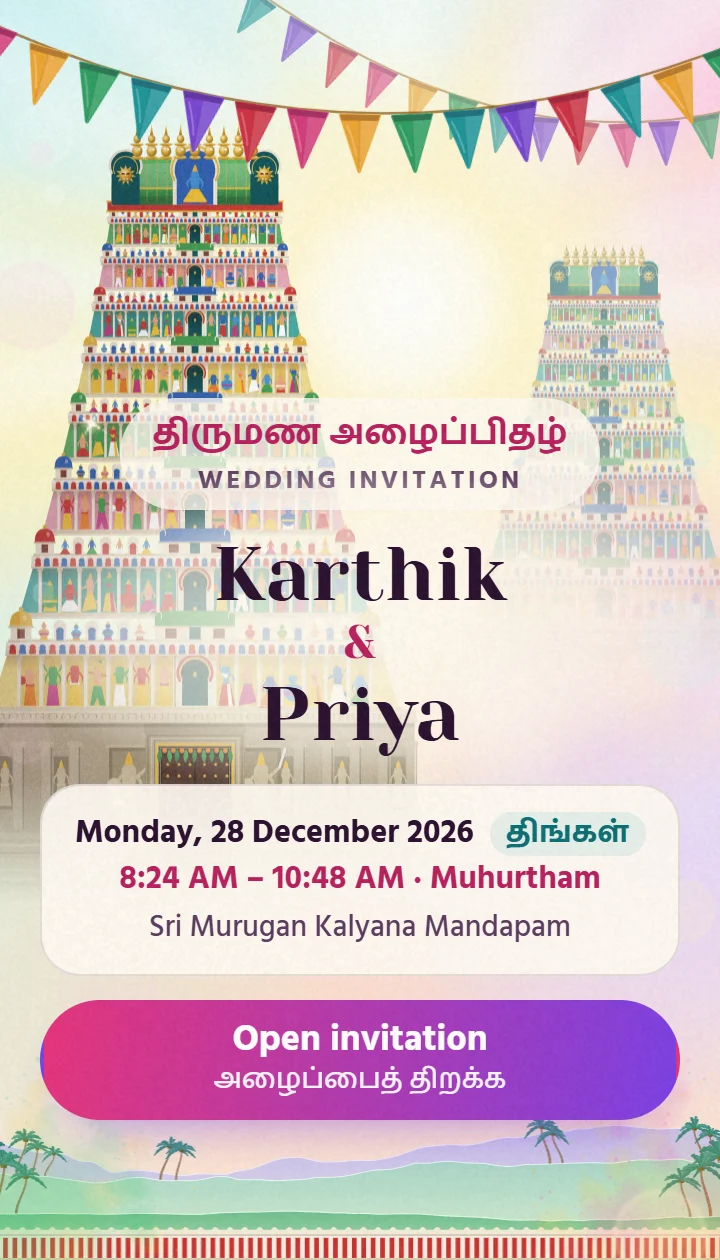
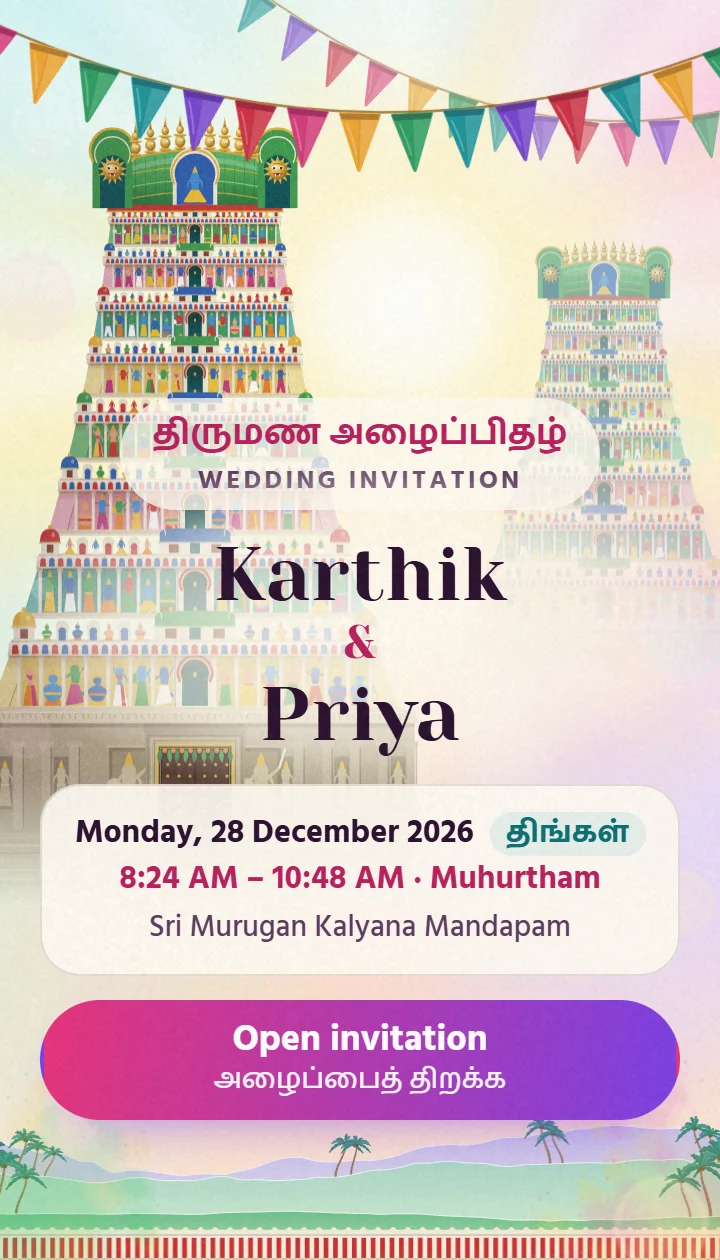
Thiruvizha 2 demo + thumbnail: round-3 version (critic 8.2)
Courtyard landing, reworked gopuram, desktop scale, sticky-bar label fix.

diff --git a/public/templates/thiruvizha2.html b/public/templates/thiruvizha2.html
@@ -22,7 +22,7 @@
 @media (min-width: 900px) { :root { --m: 40px; --sec: 104px; } }
 *, *::before, *::after { box-sizing: border-box; }
 html { -webkit-text-size-adjust: 100%; background: var(--paper); }
-body { margin: 0; color: var(--ink); font: 500 17px/1.5 var(--ui); -webkit-font-smoothing: antialiased; overflow-x: hidden; overflow-x: clip; padding-bottom: calc(var(--bar-h) + var(--safe) + 8px); }
+body { margin: 0; color: var(--ink); font: 500 17px/1.5 var(--ui); -webkit-font-smoothing: antialiased; overflow-x: hidden; overflow-x: clip; }
 html.locked body, body.is-locked { overflow: hidden; }
 img, svg, canvas, video, iframe { display: block; max-width: 100%; }
 a { color: inherit; }
@@ -68,10 +68,11 @@ p, h1, h2, h3, figure, ol, ul { margin: 0; }
 html.past-hero .rails { opacity: 1; }
 .rail { position: absolute; top: 0; bottom: 0; width: calc(50vw - 300px); }
 .rl { left: 0; } .rr { right: 0; }
-.rail img { position: absolute; bottom: 0; left: 50%; width: min(70%, 280px); transform: translateX(-50%); opacity: .12; }
+.rail img { position: absolute; bottom: 0; left: 50%; width: min(70%, 280px); transform: translateX(-50%); opacity: .2; }
 .rr img { transform: translateX(-50%) scaleX(-1); }
 .rail::after { content: ''; position: absolute; top: 0; bottom: 0; width: 48px; background: var(--kolam) repeat-y center top / 48px 48px; opacity: .55; }
 .rl::after { right: 28px; } .rr::after { left: 28px; }
+.sec > .seam { left: calc(50% - 326px); right: calc(50% - 326px); }
 }
 .grain { position: fixed; inset: 0; z-index: 95; pointer-events: none; opacity: .03; background-size: 128px 128px; }
 
@@ -169,9 +170,10 @@ html.push .g-art .bunt { transform: translateY(-170px); opacity: 0; }
 html.push .pw { opacity: 0; }
 html.push .mistw { transform: scale(1.3); opacity: 0; }
 html.gate-off .gate { visibility: hidden; }
+html.gate-fade .gate { opacity: 0; transition: opacity calc(.7s * var(--q)) linear; }
 html.calm.opening .gate { opacity: 0; transition: opacity .6s; }
 .bloom { position: fixed; inset: 0; z-index: 60; pointer-events: none; opacity: 0; background: radial-gradient(70% 55% at 56% 30%, #FFFFFF 0%, #FFFCEB 40%, #FFF4C2 75%, #FFEBC8 100%); }
-html.bloom-in .bloom { opacity: .92; transition: opacity calc(.4s * var(--q)) var(--p2in); }
+html.bloom-in .bloom { opacity: .35; transition: opacity calc(.4s * var(--q)) var(--p2in); }
 html.bloom-out .bloom { opacity: 0; transition: opacity calc(.45s * var(--q)) var(--p2out); }
 .fx { position: fixed; inset: 0; width: 100%; height: 100%; z-index: 70; pointer-events: none; }
 main { position: relative; display: block; overflow-x: clip; }
@@ -186,15 +188,19 @@ html.locked:not(.opening) main { visibility: hidden; }
 .art img.h-rays.in { opacity: .7; }
 .h-scene { left: 0; right: 0; top: 0; height: 340px; z-index: 1; }
 .h-scene > * { position: absolute; }
-.hg { left: 7vw; bottom: 46px; width: 31vw; max-width: 230px; z-index: 2; transform: translate3d(0, calc(var(--par) * 1px), 0); }
-.toran { left: 0; right: 0; top: 0; height: 56px; background-repeat: repeat-x; background-size: 600px 56px; background-position: center top; z-index: 5; opacity: 0; transition: opacity .6s; }
+.hg { left: 19vw; bottom: 70px; width: 28vw; max-width: 230px; z-index: 2; transform: translate3d(0, calc(var(--par) * 1px), 0); }
+.art img.pil { position: absolute; top: 0; height: 100%; width: auto; max-width: none; z-index: 6; }
+.art img.pil.pr { right: 0; transform: scaleX(-1); } .art img.pil.pl { left: 0; }
+.lintel { left: 0; right: 0; top: 0; height: 15px; z-index: 6; background: linear-gradient(#E6D7B9, #B79F7A); box-shadow: 0 2px 0 rgba(60, 40, 20, .25); }
+.floor { left: 0; right: 0; bottom: 0; height: 30px; z-index: 3; background: linear-gradient(#E9DAB9, #D6C29C); background-repeat: repeat-x; }
+.toran { left: 0; right: 0; top: 10px; height: 56px; background-repeat: repeat-x; background-size: 600px 56px; background-position: center top; z-index: 5; opacity: 0; transition: opacity .6s; }
 .toran.in { opacity: 1; }
 html.live:not(.calm) .hg { will-change: transform; }
-.hfar { right: 9vw; bottom: 58px; width: 23vw; max-width: 170px; z-index: 1; }
+.hfar { right: 33vw; bottom: 84px; width: 17vw; max-width: 150px; z-index: 1; }
 .hfar img.in { opacity: .8; }
-.art img.h-hills { position: absolute; left: -6%; width: 112%; max-width: none; bottom: 0; z-index: 3; }
+.art img.h-hills { position: absolute; left: -6%; width: 112%; max-width: none; bottom: 28px; z-index: 3; }
 .hero .bokeh { z-index: 4; }
-.hpot { right: 24px; bottom: -12px; width: 23vw; max-width: 210px; z-index: 4; }
+.hpot { right: 16vw; bottom: 4px; width: 19vw; max-width: 200px; z-index: 4; }
 .hero-in { position: relative; z-index: 5; width: 100%; max-width: var(--col); margin: 0 auto; flex: 1; display: flex; flex-direction: column; align-items: center; text-align: center; }
 .h-eye { display: flex; flex-direction: column; align-items: center; color: var(--rani-t); padding: 6px 16px; border-radius: 999px; background: rgba(255, 251, 242, .8); }
 .h-eye .ta { font-size: 17px; font-weight: 700; line-height: 1.5; }
@@ -267,8 +273,9 @@ mask: radial-gradient(circle 10px at var(--nx) 0, #0000 97%, #000) top / 100% 51
 .ticket .chip { margin-bottom: 10px; }
 .ticket .actions { margin-top: 14px; }
 .ticket .btn { min-height: 48px; padding: 0 18px; font-size: 16px; }
-.tk.is-main .t-body::after { content: ''; position: absolute; inset: 0; pointer-events: none; background: linear-gradient(105deg, rgba(255, 240, 176, 0) 35%, rgba(255, 240, 176, .55) 50%, rgba(255, 240, 176, 0) 65%); transform: translateX(-110%); }
-html.m-ready .tk.is-main.in .t-body::after { transform: translateX(110%); transition: transform 1.3s var(--p2out) .5s; }
+.tk.is-main .stub { position: relative; overflow: hidden; }
+.tk.is-main .stub::after { content: ''; position: absolute; inset: 0; pointer-events: none; background: linear-gradient(105deg, rgba(255, 240, 176, 0) 35%, rgba(255, 240, 176, .55) 50%, rgba(255, 240, 176, 0) 65%); transform: translateX(-110%); }
+html.m-ready .tk.is-main.in .stub::after { transform: translateX(110%); transition: transform 1.3s var(--p2out) .5s; }
 
 /* Countdown */
 .cd-sec .sec-head .ta { color: var(--teal-t); }
@@ -287,9 +294,10 @@ html.m-ready .tk.is-main.in .t-body::after { transform: translateX(110%); transi
 .cd-t .cd-n .dv { color: var(--ink); background: none; -webkit-background-clip: border-box; background-clip: border-box; }
 .cd-t small { display: block; font: 700 14px/1.3 var(--ui); color: var(--ink2); margin-top: 4px; }
 .ring { position: absolute; left: 50%; top: 50%; width: 92px; height: 92px; margin: -46px 0 0 -46px; border-radius: 50%; border: 2px solid var(--rani); opacity: 0; pointer-events: none; }
-.cd-art { position: relative; display: flex; justify-content: center; align-items: flex-end; gap: 0; margin: 6px auto 0; max-width: 380px; }
-.cd-art .drumw { width: 34%; margin-right: -6%; position: relative; z-index: 2; }
-.cd-art .potw { position: relative; width: 66%; }
+.cd-art { position: relative; margin: 18px auto 0; max-width: 340px; }
+.cd-art .kfloor { width: 100%; }
+.cd-art .drumw { position: absolute; left: 50%; bottom: 34%; width: 50%; margin-left: -25%; z-index: 2; }
+.cd-sec { padding-bottom: calc(var(--sec) - 24px); }
 .steam { position: absolute; left: 50%; top: 18%; width: 40%; height: 30%; margin-left: -20%; pointer-events: none; }
 .wisp { position: absolute; bottom: 0; width: 26%; height: 100%; opacity: 0; }
 .wisp svg { width: 100%; height: 100%; }
@@ -400,14 +408,14 @@ html.calm .flame { animation: none !important; }
 .share-more { display: flex; flex-wrap: wrap; justify-content: center; gap: 0 22px; }
 .share-status { min-height: 24px; font: 700 15px/1.5 var(--ui); color: var(--green-t); margin-top: 4px; }
 footer a { display: inline-block; padding: 12px 4px; }
-footer { padding: 24px var(--m) 28px; text-align: center; font: 500 15px/1.5 var(--ui); color: var(--ink2); }
+footer { padding: 20px var(--m) calc(16px + var(--safe)); text-align: center; font: 500 15px/1.5 var(--ui); color: var(--ink2); }
 
 /* Sticky bar */
 .bar { position: fixed; left: 0; right: 0; bottom: 0; z-index: 40; height: calc(var(--bar-h) + var(--safe)); padding: 0 8px var(--safe) 4px; background: rgba(255, 251, 242, .96); border-top: 1px solid rgba(42, 15, 46, .14); color: var(--ink); display: flex; align-items: center; gap: 6px; transform: translateY(110%); transition: transform .45s var(--e-out); }
 .bar.on { transform: none; }
 .bar-main { flex: 1; min-width: 0; height: 100%; display: flex; flex-direction: column; justify-content: center; text-align: left; background: none; border: 0; padding: 0 6px 0 12px; cursor: pointer; }
 .bar-l1 { font: 700 15px/1.3 var(--ui); white-space: nowrap; overflow: hidden; text-overflow: ellipsis; }
-@media (max-width: 429px) { .bb { padding: 0 10px; } }
+@media (max-width: 430px) { .bb { width: 44px; height: 44px; padding: 0; justify-content: center; } .bb span { position: absolute; width: 1px; height: 1px; overflow: hidden; clip: rect(0 0 0 0); } .bar-l1 { white-space: normal; display: -webkit-box; -webkit-line-clamp: 2; -webkit-box-orient: vertical; } }
 @media (max-width: 399px) { html:not(.st-live) .bar-l2 .b-v { display: none; } }
 .bar-l2 { font: 500 14px/1.3 var(--ui); color: var(--ink2); white-space: nowrap; overflow: hidden; text-overflow: ellipsis; }
 .bb { flex: none; display: inline-flex; align-items: center; gap: 6px; height: 48px; padding: 0 12px; border-radius: 999px; border: 2px solid var(--ink); background: #fff; color: var(--ink); font: 700 14px/1 var(--ui); text-decoration: none; cursor: pointer; }
@@ -470,20 +478,20 @@ footer { padding: 24px var(--m) 28px; text-align: center; font: 500 15px/1.5 var
 @media (max-width: 359px) { .gate .scrim, .hero .scrim { max-width: none; } }
 @media (max-height: 640px) { .gate-in { padding-top: 64px; } .gate .scrim { padding: 12px 0 14px; } .g-facts { padding: 12px 14px; } .f-when, .f-time { font-size: 16px; } .f-venue { font-size: 15px; } #openBtn { margin-top: 12px; } }
 @media (max-width: 899px) { .farw img { -webkit-mask-image: linear-gradient(#000 62%, transparent 86%); mask-image: linear-gradient(#000 62%, transparent 86%); } .herow img { -webkit-mask-image: linear-gradient(#000 84%, transparent 99%); mask-image: linear-gradient(#000 84%, transparent 99%); } .g-space { order: -1; max-height: none; } .h-space { order: -1; max-height: none; min-height: 250px; } }
-@media (max-width: 359px) { .h-space { min-height: 214px !important; } .g-eye, .h-eye { background: none; padding: 0; text-shadow: 0 0 10px #FFFBF2, 0 0 4px #FFFBF2, 0 0 2px #FFFBF2; } .herow { top: 16px !important; width: 64vw !important; left: -10vw !important; } }
+@media (max-width: 359px) { .h-space { min-height: 214px !important; } .g-eye, .h-eye { background: rgba(255, 250, 240, .88); padding: 4px 12px; } .herow { top: 16px !important; width: 64vw !important; left: -10vw !important; } }
 /* ── desktop: column ≤ 560, art fills the viewport ── */
 @media (min-width: 900px) {
-.herow { left: max(-7vw, -110px); top: auto; bottom: 0; width: 48vh; max-width: 480px; }
+.herow { left: 2vw; top: auto; bottom: 3vh; width: 46vh; max-width: 460px; }
 .farw { right: max(-5vw, -80px); top: auto; bottom: 7vh; width: 36vh; }
 .pw1 { width: 30vw; left: -12vw; bottom: -18vh; } .pw2 { width: 30vw; right: -12vw; bottom: -18vh; }
 .mist { height: 34vh; }
-.h-scene { height: 48vh; }
+.h-scene { height: 52vh; }
 
-.hg { left: calc(50% - 280px - 16vh); bottom: 18%; width: 15.5vh; max-width: none; }
-.hfar { right: calc(50% - 280px - 13vh); bottom: 21%; width: 12.5vh; max-width: none; }
-.hpot { right: 24px; bottom: 24px; width: 24vh; max-width: 260px; }
+.hg { left: calc(50% - 280px - 20vh); bottom: calc(14% + 28px); width: 20vh; max-width: none; }
+.hfar { right: calc(50% - 280px - 16vh); bottom: calc(17% + 28px); width: 16vh; max-width: none; }
+.hpot { right: calc(50% - 280px - 34vh); bottom: 4px; width: 17vh; max-width: 240px; }
 .hero { padding-top: 120px; padding-bottom: 100px; }
-.h-space { min-height: calc(48vh - 150px); max-height: none; }
+.h-space { min-height: calc(52vh - 150px); max-height: none; }
 .sunw { top: 30%; left: 50%; }
 .h-sun, .art img.h-rays { left: 50%; top: 16%; }
 }
@@ -552,8 +560,11 @@ footer { padding: 24px var(--m) 28px; text-align: center; font: 500 15px/1.5 var
                     <div class="hfar"><img id="hFarImg" alt="" /></div>
                     <div class="hg" id="hg"><img id="hgImg" alt="" /></div>
                     <img class="h-hills" id="hHills" alt="" />
+                    <div class="floor" id="hFloor"></div>
                     <div class="hpot"><img id="hPotImg" alt="" /></div>
+                    <img class="pil pl" id="pilL" alt="" /><img class="pil pr" id="pilR" alt="" />
                 </div>
+                <i class="lintel"></i>
                 <div class="toran" id="hToran"></div>
             </div>
             <div class="hero-in">
@@ -641,8 +652,8 @@ footer { padding: 24px var(--m) 28px; text-align: center; font: 500 15px/1.5 var
             </div>
             <div class="cd-next facts rv" id="cdNext" hidden></div>
             <div class="cd-art art" aria-hidden="true">
+                <img class="kfloor" id="kfloorImg" alt="" />
                 <div class="drumw" id="drumw"><img id="drumImg" alt="" /></div>
-                <div class="potw"><img id="potImg" alt="" /><div class="steam" id="steam"></div></div>
             </div>
         </section>
 
@@ -1290,12 +1301,12 @@ footer { padding: 24px var(--m) 28px; text-align: center; font: 500 15px/1.5 var
     function gopuramSVG(far) {
         var R = prng(far ? 31 : 17), J = function (a) { return (R() * 2 - 1) * a; };
         var W = 540, C = 270, BASE = 760, TOP = 150, HW0 = 250, HW1 = 100, fn = 0;
-        function hw(y) { var t = (BASE - y) / (BASE - TOP); return HW0 - (HW0 - HW1) * (1.35 * t - .35 * t * t); }
+        function hw(y) { var t = (BASE - y) / (BASE - TOP); return HW0 - (HW0 - HW1) * (1.55 * t - .55 * t * t); }
         function trap(y1, y2, e1, e2) { return poly([[C - hw(y1) - e1, y1], [C + hw(y1) + e1, y1], [C + hw(y2) + e2, y2], [C - hw(y2) - e2, y2]]); }
         function hs(x, yb, w, h) { var r = w * .56, s = yb - (h - w * .808); return 'M' + f1(x - w / 2) + ',' + f1(yb) + 'V' + f1(s) + 'A' + f1(r) + ',' + f1(r) + ' 0 1 1 ' + f1(x + w / 2) + ',' + f1(s) + 'V' + f1(yb) + 'Z'; }
         function arc(x, yb, w, h) { var r = w * .56, s = yb - (h - w * .808); return 'M' + f1(x - w / 2) + ',' + f1(s) + 'A' + f1(r) + ',' + f1(r) + ' 0 1 1 ' + f1(x + w / 2) + ',' + f1(s); }
         function fig(x, yb, hgt, type) {
-            var i = fn++, sk = SKINS[(i * 5 + 1) % SKINS.length], c = CLOTHS[(i * 3) % CLOTHS.length], c2 = CLOTHS[(i * 3 + 2) % CLOTHS.length];
+            var i = fn++, sk = SKINS[Math.floor(R() * SKINS.length)], c = CLOTHS[Math.floor(R() * CLOTHS.length)], c2 = CLOTHS[Math.floor(R() * CLOTHS.length)];
             if (c === sk) c = '#F2C230';
             return '<g transform="translate(' + f1(x + J(.5)) + ',' + f1(yb) + ') scale(' + (hgt * (1 + J(.05))).toFixed(2) + ')">' + FIG[type || FIGS[i % FIGS.length]](sk, c, c2) + '</g>';
         }
@@ -1334,12 +1345,17 @@ footer { padding: 24px var(--m) 28px; text-align: center; font: 500 15px/1.5 var
             var yb = y, yt = y - h, yM = yb - .07 * h, yW = yb - .62 * h, yC = yb - .75 * h, wall = WALLS[k % 4][0], deep = WALLS[k % 4][1];
             tiers += P(trap(yb, yM, 2, 2), CREAM2) + P(trap(yb - 1, yb - 2.2, 2, 2), 'rgba(255,255,255,.5)');
             tiers += P(trap(yM, yW, 0, 0), wall);
+            var cbx = Math.min(22, (hw(yM) - 40) * .22);
+            [-1, 1].forEach(function (sg) { // projecting corner bays, stepped forward with a darker inner edge
+                var o1 = C + sg * hw(yM), o2 = C + sg * hw(yW), i1 = o1 - sg * cbx, i2 = o2 - sg * cbx;
+                tiers += P(poly([[o1, yM], [i1, yM], [i2, yW], [o2, yW]]), 'rgba(255,255,255,.16)') + S('M' + f1(i1) + ',' + f1(yM) + 'L' + f1(i2) + ',' + f1(yW), 'rgba(40,20,10,.4)', 1);
+            });
             var wh = yM - yW, fh = wh * .86, bw = fh * .5, cbw = bw * 1.75, half = hw((yM + yW) / 2) - 5;
             var m = Math.max(0, Math.floor((half - cbw / 2) / bw)), xs = [];
             for (var j = 0; j < m; j++) xs.push(C - cbw / 2 - bw * (j + .5), C + cbw / 2 + bw * (j + .5));
             xs.forEach(function (x, ii) {
                 tiers += P(rect(x - bw * .4, yW + 1, bw * .8, wh - 2), deep);
-                tiers += fig(x, yM - 1, fh * (k > 6 ? 1.05 : .98), FIGS[(k * 3 + ii) % 8]);
+                tiers += fig(x, yM - 1, fh * (k > 5 ? 1.05 : .98), FIGS[Math.floor(R() * 8)]);
             });
             for (j = 0; j <= m; j++) [-1, 1].forEach(function (sg) { var X = C + sg * (cbw / 2 + bw * j); tiers += P(rect(X - bw * .09, yW + 1, bw * .18, wh - 1), CREAM) + P(rect(X - bw * .14, yW + 1, bw * .28, wh * .07), CREAM) + P(rect(X + bw * .05, yW + 1, bw * .04, wh - 1), 'rgba(80,50,30,.18)'); });
             // the central bay projects: framed, a little lighter, a larger deity under a torana
@@ -1347,7 +1363,7 @@ footer { padding: 24px var(--m) 28px; text-align: center; font: 500 15px/1.5 var
             tiers += S(arc(C, yM - 1, cbw * .78, wh * .96), '#C8322F', Math.max(1.4, h * .03)) + S(arc(C, yM - 1, cbw * .66, wh * .9), GOLD, Math.max(.8, h * .012)) + EL(C, yM - wh * .62, cbw * .05, wh * .05, GOLD, 'opacity=".85"');
             // cornice shadow on the wall, then the kapota with kudu arches
             tiers += P(trap(yW + .16 * h, yW, 0, 0), 'url(#sh)');
-            tiers += P(trap(yW, yC, 2.5, 6), 'url(#corn)') + P(trap(yW + 1.4, yW, 2.5, 2.5), CREAM2) + S('M' + f1(C - hw(yC) - 6) + ',' + f1(yC + .4) + 'H' + f1(C + hw(yC) + 6), '#FFFFFF', .9);
+            tiers += P(trap(yW, yC, 2.5, 6), 'url(#corn)') + P(trap(yW + 1.4, yW, 2.5, 2.5), CREAM2) + P(trap(yW + 3.6, yW + 1.4, 1.5, 2), '#00000026') + S('M' + f1(C - hw(yC) - 6) + ',' + f1(yC + .4) + 'H' + f1(C + hw(yC) + 6), '#FFFFFF', .9);
             var kh = (yW - yC) * .82, kw = kh * .66, step = kw * 1.5, kx0 = C - hw(yW) + kw * .8;
             for (var kx = kx0, kn = 0; kx < C + hw(yW) - kw * .6; kx += step, kn++) tiers += P(hs(kx, yW - .6, kw, kh), KUDU[kn % 2]) + S(arc(kx, yW - .6, kw, kh), CREAM, Math.max(.6, h * .012));
             tiers += S('M' + f1(C + hw(yM)) + ',' + f1(yM) + 'L' + f1(C + hw(yW)) + ',' + f1(yW), '#FFF6D8', 1.6) + S('M' + f1(C + hw(yW) + 2.5) + ',' + f1(yW) + 'L' + f1(C + hw(yC) + 6) + ',' + f1(yC), '#FFFFFF', 1.4);
@@ -1374,26 +1390,25 @@ footer { padding: 24px var(--m) 28px; text-align: center; font: 500 15px/1.5 var
             }
             y = yt; h *= .88;
         }
-        /* the crown: a barrel-vault shala sikhara with kirtimukha gables and nine kalasam */
-        var L = C - 100, Rr = C + 100, rr = 34, ridge = 90;
-        crown += P(rect(L - 6, 142, Rr - L + 12, 12), '#C8322F') + S('M' + (L - 6) + ',142H' + (Rr + 6), GOLD, 2) + S('M' + (L - 6) + ',154H' + (Rr + 6), GOLD, 2);
-        var body = 'M' + L + ',146V' + (ridge + rr) + 'A' + rr + ',' + rr + ' 0 0 1 ' + (L + rr) + ',' + ridge + 'H' + (Rr - rr) + 'A' + rr + ',' + rr + ' 0 0 1 ' + Rr + ',' + (ridge + rr) + 'V146Z';
-        crown += P(body, 'url(#crown)');
-        crown += P('M' + (L + 6) + ',' + (ridge + rr) + 'A' + (rr - 6) + ',' + (rr - 6) + ' 0 0 1 ' + (L + rr) + ',' + (ridge + 6) + 'H' + (Rr - rr) + 'A' + (rr - 6) + ',' + (rr - 6) + ' 0 0 1 ' + (Rr - 6) + ',' + (ridge + rr) + 'V' + (ridge + rr + 4) + 'H' + (L + 6) + 'Z', '#FFFFFF', 'opacity=".2"');
-        for (var rx = L + rr + 8; rx < Rr - rr; rx += 12) crown += S('M' + rx + ',' + (ridge + 3) + 'V142', GOLD, 1, 'opacity=".6"');
-        [L + rr, Rr - rr].forEach(function (cx, ei) { [24, 14].forEach(function (r) { crown += S('M' + (ei ? cx : cx - r) + ',' + (ridge + rr) + 'A' + r + ',' + r + ' 0 0 ' + (ei ? 1 : 1) + ' ' + (ei ? cx + r : cx) + ',' + (ridge + rr - r), GOLD, 1, 'opacity=".55"'); }); });
-        crown += S('M' + L + ',' + (ridge + rr + 2) + 'H' + Rr, GOLD, 2.2) + P(rect(L, 136, Rr - L, 8), '#1E4D2A', 'opacity=".35"');
-        crown += S(body.replace(/V146Z$/, ''), GOLD, 2.4);
-        [L + 16, Rr - 16].forEach(function (gx) { // kirtimukha gables on the rounded ends
-            crown += P(hs(gx, 146, 34, 66), '#0A4F55') + S(arc(gx, 146, 34, 66), CREAM, 3) + S(arc(gx, 146, 26, 58), GOLD, 1.2);
-            var mane = '';
-            for (var mp = 0; mp < 11; mp++) { var ma = mp / 11 * Math.PI * 2 - Math.PI / 2; mane += 'M' + f1(gx + Math.cos(ma - .24) * 7.5) + ',' + f1(110 + Math.sin(ma - .24) * 7.5) + 'L' + f1(gx + Math.cos(ma) * 12.5) + ',' + f1(110 + Math.sin(ma) * 12.5) + 'L' + f1(gx + Math.cos(ma + .24) * 7.5) + ',' + f1(110 + Math.sin(ma + .24) * 7.5) + 'Z'; }
-            crown += P(mane, GOLD) + CI(gx, 110, 7.8, 'url(#goldR)') + EL(gx - 3, 108.4, 1.8, 1.2, '#5A1A1A') + EL(gx + 3, 108.4, 1.8, 1.2, '#5A1A1A') + P('M' + (gx - 3.4) + ',113.4Q' + gx + ',116.4 ' + (gx + 3.4) + ',113.4L' + (gx + 2) + ',116L' + gx + ',114.6L' + (gx - 2) + ',116Z', '#FFFFFF');
+        /* the crown: a curved barrel-vault roof (green, gold rim), large kirtimukha masks at both ends, nine kalasam on the ridge */
+        var L = C - 98, Rr = C + 98;
+        function topY(x) { var u = (x - C) / (Rr - L) * 2; return 80 + 16 * u * u; } // arched ridge line
+        crown += P(rect(L - 8, 142, Rr - L + 16, 12), '#C8322F') + S('M' + (L - 8) + ',142H' + (Rr + 8), GOLD, 2) + S('M' + (L - 8) + ',154H' + (Rr + 8), GOLD, 2);
+        var arch = 'M' + L + ',146V' + f1(topY(L) + 18) + 'Q' + L + ',' + f1(topY(L)) + ' ' + (L + 18) + ',' + f1(topY(L + 18)) + 'Q' + C + ',' + f1(80 - 12) + ' ' + (Rr - 18) + ',' + f1(topY(Rr - 18)) + 'Q' + Rr + ',' + f1(topY(Rr)) + ' ' + Rr + ',' + f1(topY(Rr) + 18) + 'V146Z';
+        crown += P(arch, 'url(#crown)');
+        [16, 32, 46].forEach(function (dy, i) { crown += S('M' + (L + 2) + ',' + f1(topY(L + 18) + dy + 6) + 'Q' + C + ',' + f1(80 - 12 + dy + 4) + ' ' + (Rr - 2) + ',' + f1(topY(Rr - 18) + dy + 6), i === 1 ? '#FFF0B0' : GOLD, i === 1 ? .8 : 1.4, 'opacity=".85"'); });
+        for (var rx = L + 14; rx < Rr - 10; rx += 12) crown += S('M' + rx + ',' + f1(topY(rx) + 4) + 'L' + rx + ',140', '#1E4D2A', .9, 'opacity=".35"');
+        crown += P('M' + (L + 8) + ',' + f1(topY(L + 8) + 10) + 'Q' + C + ',' + f1(80 - 8) + ' ' + (Rr - 8) + ',' + f1(topY(Rr - 8) + 10) + 'L' + (Rr - 8) + ',' + f1(topY(Rr - 8) + 16) + 'Q' + C + ',' + f1(80 - 1) + ' ' + (L + 8) + ',' + f1(topY(L + 8) + 16) + 'Z', '#FFFFFF', 'opacity=".22"');
+        crown += S(arch.replace(/V146Z$/, ''), GOLD, 2.6);
+        [L - 2, Rr + 2].forEach(function (gx) { // large kirtimukha masks
+            crown += P(hs(gx, 150, 48, 96), '#3C9A4A') + S(arc(gx, 150, 48, 96), GOLD, 3.2) + S(arc(gx, 150, 38, 86), CREAM, 1.6) + P(hs(gx, 150, 30, 64), '#0A4F55');
+            var mane = '', cy = 104;
+            for (var mp = 0; mp < 13; mp++) { var ma = mp / 13 * Math.PI * 2 - Math.PI / 2; mane += 'M' + f1(gx + Math.cos(ma - .2) * 11) + ',' + f1(cy + Math.sin(ma - .2) * 11) + 'L' + f1(gx + Math.cos(ma) * 18) + ',' + f1(cy + Math.sin(ma) * 18) + 'L' + f1(gx + Math.cos(ma + .2) * 11) + ',' + f1(cy + Math.sin(ma + .2) * 11) + 'Z'; }
+            crown += P(mane, GOLD) + CI(gx, cy, 11.5, 'url(#goldR)') + EL(gx - 4.3, cy - 2.5, 2.8, 1.8, '#FFFFFF') + EL(gx + 4.3, cy - 2.5, 2.8, 1.8, '#FFFFFF') + CI(gx - 4.3, cy - 2.3, 1.2, '#2A0F2E') + CI(gx + 4.3, cy - 2.3, 1.2, '#2A0F2E') + S('M' + (gx - 6) + ',' + (cy - 6.6) + 'Q' + gx + ',' + (cy - 9) + ' ' + (gx + 6) + ',' + (cy - 6.6), '#9C6A18', 1.2) + P('M' + (gx - 5.5) + ',' + (cy + 4) + 'Q' + gx + ',' + (cy + 8.5) + ' ' + (gx + 5.5) + ',' + (cy + 4) + 'Z', '#7E1F3A') + P('M' + (gx - 3.5) + ',' + (cy + 4.4) + 'L' + (gx - 2.6) + ',' + (cy + 7.4) + 'L' + (gx - 1.6) + ',' + (cy + 4.8) + 'Z', '#FFFFFF') + P('M' + (gx + 3.5) + ',' + (cy + 4.4) + 'L' + (gx + 2.6) + ',' + (cy + 7.4) + 'L' + (gx + 1.6) + ',' + (cy + 4.8) + 'Z', '#FFFFFF');
         });
-        crown += P(hs(C, 146, 54, 74), CREAM) + P(hs(C, 146, 44, 66), '#2A5DB0') + S(arc(C, 146, 50, 70), GOLD, 2.2) + '<g transform="translate(' + C + ',143) scale(54)">' + FIG.seat('#3D8FD6', '#F2C230', '#C8322F') + '</g>';
+        crown += P(hs(C, 146, 54, 70), CREAM) + P(hs(C, 146, 44, 62), '#2A5DB0') + S(arc(C, 146, 50, 66), GOLD, 2.2) + '<g transform="translate(' + C + ',143) scale(52)">' + FIG.seat('#3D8FD6', '#F2C230', '#C8322F') + '</g>';
         for (var ki = 0; ki < 9; ki++) {
-            var kx2 = L + 30 + ki * (Rr - L - 60) / 8, dxe = Math.max(L + rr - kx2, kx2 - (Rr - rr), 0), kb = ridge + rr - Math.sqrt(Math.max(0, rr * rr - dxe * dxe));
-            if (!dxe) kb = ridge;
+            var kx2 = L + 26 + ki * (Rr - L - 52) / 8, kb = topY(kx2) - 2;
             crown += EL(kx2, kb - 1, 7, 2.4, 'url(#gold)') + EL(kx2, kb - 9, 6.2, 7, 'url(#goldR)') + EL(kx2, kb - 17, 7.6, 2, 'url(#gold)') + EL(kx2, kb - 23.5, 4.4, 5, 'url(#goldR)') + P('M' + f1(kx2 - 1.9) + ',' + (kb - 28) + 'L' + f1(kx2) + ',' + (kb - 42) + 'L' + f1(kx2 + 1.9) + ',' + (kb - 28) + 'Z', 'url(#gold)') + CI(kx2 + 2.2, kb - 11, 1.4, '#FFFFFF', 'opacity=".9"');
         }
         return svgWrap(540, 1000, defs, base + tiers + haras + crown);
@@ -1454,7 +1469,7 @@ footer { padding: 24px var(--m) 28px; text-align: center; font: 500 15px/1.5 var
         var far = ridge(170, 70, 6, .55), mid = ridge(232, 44, 6, .55), near = ridge(292, 24, 6, .5);
         var defs = LG('hf', 0, 0, 0, 1, [[0, '#C9C3E8'], [.6, '#DDD3EC'], [1, '#FFF4C2']]) + LG('hm', 0, 0, 0, 1, [[0, '#A9D8C5'], [.7, '#CFE7CF'], [1, '#FFF4C2']]) + LG('hn', 0, 0, 0, 1, [[0, '#6FBF8E'], [.6, '#9BD3A2'], [1, '#FFF1C8']]);
         var s = P(smooth(far) + 'L' + W + ',' + H + 'L0,' + H + 'Z', 'url(#hf)') + S(smooth(far), '#F4F1FF', 1.4);
-        [[90, 3], [300, 2], [880, 2], [1110, 3]].forEach(function (c, ci) {
+        [[90, 3], [560, 2], [880, 2], [1110, 3]].forEach(function (c, ci) {
             for (var p = 0; p < c[1]; p++) { var x = c[0] * sx + p * 22 + (R() * 2 - 1) * 6; s += palm(x, yAt(mid, x) + 6, 56 - p * 10 + R() * 6, (ci < 2 ? 1 : -1) * (6 + R() * 8)); }
         });
         s += P(smooth(mid) + 'L' + W + ',' + H + 'L0,' + H + 'Z', 'url(#hm)') + S(smooth(mid), '#F2FFF8', 1.3);
@@ -1513,6 +1528,47 @@ footer { padding: 24px var(--m) 28px; text-align: center; font: 500 15px/1.5 var
             if (bx < 600) s += CI(bx, by + 4, 5.4, i % 3 === 2 ? '#E6337A' : '#E87A22') + CI(bx, by + 4, 2.6, i % 3 === 2 ? '#F7A0C2' : '#FFC93C');
         }
         return svgWrap(600, 56, '', s);
+    }
+    /* ── the courtyard: a carved mandapam pillar (used left and mirrored right), a kolam floor tile,
+       and a kolam floor patch for the countdown drum ── */
+    function pillarSVG() {
+        var defs = LG('ps', 0, 0, 1, 0, [[0, '#B79F7A'], [.45, '#E6D7B9'], [1, '#A38B66']]) + LG('pg', 0, 0, 0, 1, [[0, '#FFF0B0'], [.5, '#E7B53A'], [1, '#B07A22']]);
+        var s = P(rect(0, 0, 80, 16), 'url(#ps)') + P(rect(0, 14, 80, 3), 'rgba(60,40,20,.3)');
+        s += P('M4,17H76L67,31Q61,41 52,41H28Q19,41 13,31Z', 'url(#ps)') + S('M13,31Q19,39 28,39M67,31Q61,39 52,39', 'rgba(60,40,20,.35)', 1.2) + CI(13, 31, 3.2, 'url(#pg)') + CI(67, 31, 3.2, 'url(#pg)');
+        s += P(rect(18, 41, 44, 9), '#D5C3A0');
+        for (var lp = 0; lp < 6; lp++) s += P('M' + (19 + lp * 7.2) + ',50Q' + (22.6 + lp * 7.2) + ',41 ' + (26.2 + lp * 7.2) + ',50Z', '#C8322F', 'opacity=".75"');
+        var y = 50, seq = [44, 52, 48, 58, 48, 52], i = 0;
+        while (y < 360) {
+            var h = Math.min(seq[i % seq.length], 360 - y);
+            if (i % 2 === 0) {
+                s += P(rect(16, y, 48, h), 'url(#ps)') + P(rect(16, y, 48, 2.5), 'rgba(255,255,255,.35)') + P(rect(16, y + h - 2.5, 48, 2.5), 'rgba(60,40,20,.3)');
+                var cy = y + h / 2; s += CI(40, cy, Math.min(15, h * .34), 'none', 'stroke="rgba(60,40,20,.35)" stroke-width="1.4"');
+                for (var p = 0; p < 8; p++) { var a = p * Math.PI / 4; s += EL(40 + Math.cos(a) * 7, cy + Math.sin(a) * 7, 3.4, 1.6, 'rgba(60,40,20,.22)', 'transform="rotate(' + (p * 45) + ' ' + f1(40 + Math.cos(a) * 7) + ' ' + f1(cy + Math.sin(a) * 7) + ')"'); }
+                s += CI(40, cy, 2.6, 'url(#pg)');
+            } else {
+                s += P(rect(22, y, 36, h), 'url(#ps)') + P(rect(28, y, 1.4, h), 'rgba(255,255,255,.4)') + P(rect(51, y, 1.6, h), 'rgba(60,40,20,.32)') + P(rect(22, y, 36, 2), 'rgba(60,40,20,.25)');
+            }
+            y += h; i++;
+        }
+        // a marigold garland wound round the shaft, and a red-white kavi band at the base
+        for (var g = 0; g <= 14; g++) { var t = g / 14, gx = 18 + 44 * t, gy = 128 + 26 * Math.sin(Math.PI * t); s += CI(gx, gy, 4, g % 3 === 2 ? '#E6337A' : '#E87A22') + CI(gx - 1, gy - 1, 1.3, '#FFD447'); }
+        s += P(rect(10, 360, 60, 40), 'url(#ps)');
+        for (var k = 0; k < 6; k++) s += P(rect(12 + k * 10, 372, 5, 18), '#C8322F');
+        s += P(rect(8, 358, 64, 4), '#D5C3A0') + P(rect(8, 396, 64, 4), 'rgba(60,40,20,.35)');
+        return svgWrap(80, 400, defs, s);
+    }
+    function floorTileSVG() {
+        var s = S('M0,14C10,3 20,3 30,14S50,25 60,14S80,3 90,14S110,25 120,14', '#FFFDF5', 1.6) + S('M0,14C10,25 20,25 30,14S50,3 60,14S80,25 90,14S110,3 120,14', '#FFFDF5', 1.6);
+        for (var x = 15; x < 120; x += 30) s += CI(x, 14, 1.8, '#FFFDF5') + CI(x, 4, 1.2, '#FFFDF5') + CI(x, 24, 1.2, '#FFFDF5');
+        return svgWrap(120, 28, '', s);
+    }
+    function kolamFloorSVG() {
+        var d = '';
+        for (var i = 0; i <= 720; i++) { var t = i / 720 * Math.PI * 2, x = 160 + 1.55 * (62 * Math.cos(t) + 33 * Math.cos(7 * t)), y = 66 + .5 * (62 * Math.sin(t) - 33 * Math.sin(7 * t)); d += (i ? 'L' : 'M') + x.toFixed(1) + ',' + y.toFixed(1); }
+        var s = EL(160, 70, 156, 58, 'rgba(42,15,46,.12)') + EL(160, 66, 154, 56, '#B5532A') + EL(160, 66, 154, 56, 'none', 'stroke="#E7B53A" stroke-width="2.4"') + S(d + 'Z', '#FFFDF5', 2.2);
+        s += EL(160, 66, 3, 1.6, '#FFFDF5');
+        for (var j = 0; j < 8; j++) { var a = j / 8 * Math.PI * 2; s += EL(160 + 1.55 * 80 * Math.cos(a), 66 + .5 * 80 * Math.sin(a), 3, 1.6, '#FFFDF5') + EL(160 + 1.55 * 40 * Math.cos(a + Math.PI / 8), 66 + .5 * 40 * Math.sin(a + Math.PI / 8), 2.6, 1.4, '#FFFDF5'); }
+        return svgWrap(320, 132, '', s);
     }
     function seamSVG(acc) {
         var s = S('M0,6Q280,46 560,6', '#8A5A12', 1.2, 'opacity=".7"'), n = 19, cols = [acc, mix(acc, '#FFFFFF', .38), mix(acc, '#2A0F2E', .12), '#F4CE6A'];
@@ -1805,6 +1861,8 @@ footer { padding: 24px var(--m) 28px; text-align: center; font: 500 15px/1.5 var
             .then(function () { return step(function () { return bake(hillsSVG(), 1200, 360, hillsW).then(function (u) { hillsURL = u; jobs.push(put($('#gHills'), u)); }); }); })
             .then(function () { return step(function () { return bake(gopuramSVG(true), 540, 1000, farW, towerPost(true)).then(function (u) { farURL = u; jobs.push(put($('img', gF), u)); }); }); })
             .then(function () { return step(function () { return bake(raysSVG(), 600, 600, 512).then(function (u) { raysURL = u; jobs.push(put($('#gRays'), u)); }); }); })
+            .then(function () { return step(function () { return bake(pillarSVG(), 80, 400, Math.min(240, wpx($('.h-scene')) * .2 * DPR + 40)).then(function (u) { ['#pilL', '#pilR'].forEach(function (s) { put($(s), u); }); }); }); })
+            .then(function () { return step(function () { return bake(floorTileSVG(), 120, 28, 240).then(function (u) { var f = $('#hFloor'); if (f && u) { f.style.backgroundImage = 'url(' + u + '), linear-gradient(#E9DAB9, #D6C29C)'; f.style.backgroundSize = '120px 28px, auto'; f.style.backgroundPosition = 'center 1px, 0 0'; f.style.backgroundRepeat = 'repeat-x, no-repeat'; } }); }); })
             .then(function () { return step(function () { return bake(toranSVG(), 600, 56, 600 * DPR).then(function (u) { var t = $('#hToran'); if (t && u) { t.style.backgroundImage = 'url(' + u + ')'; t.classList.add('in'); } }); }); })
             .then(function () { return Promise.all(jobs); })
             .then(function () {
@@ -1828,7 +1886,8 @@ footer { padding: 24px var(--m) 28px; text-align: center; font: 500 15px/1.5 var
     }
     function buildLater() { // the rest of the page's art, one piece per task
         var q = [
-            function () { var el = $('#potImg'), hp = $('#hPotImg'); return bake(potSVG(), 260, 420, Math.min(700, Math.max(wpx($('.potw')), wpx($('.hpot'))) * DPR)).then(function (u) { put(hp, u); return put(el, u); }); },
+            function () { var hp = $('#hPotImg'); return bake(potSVG(), 260, 420, Math.min(600, wpx($('.hpot')) * DPR + 40)).then(function (u) { return put(hp, u); }); },
+            function () { var el = $('#kfloorImg'); return el && bake(kolamFloorSVG(), 320, 132, Math.min(720, wpx($('.cd-art')) * DPR)).then(function (u) { return put(el, u); }); },
             function () { var el = $('#drumImg'); return el && bake(drumSVG(), 200, 146, Math.min(500, wpx($('#drumw')) * DPR)).then(function (u) { return put(el, u); }); },
             function () { var el = $('#therImg'); return el && bake(therSVG(), 360, 300, Math.min(1440, wpx($('#ther')) * DPR)).then(function (u) { return put(el, u); }); },
             function () { return bake(diyaSVG(), 120, 72, 88 * DPR * 1.5).then(function (u) { $$('.dimg').forEach(function (i) { put(i, u); }); }); },
@@ -1854,7 +1913,7 @@ footer { padding: 24px var(--m) 28px; text-align: center; font: 500 15px/1.5 var
             }
         ];
         if (calm || tier === 0) q.pop(); // low tier: no grain
-        q.forEach(enqueue); enqueue(function () { steamBuild(); measureSoon(); });
+        q.forEach(enqueue); enqueue(function () { measureSoon(); });
     }
     function steamBuild() {
         var st = $('#steam'); if (!st || calm || tier === 0 || st.children.length) return;
@@ -1962,18 +2021,19 @@ footer { padding: 24px var(--m) 28px; text-align: center; font: 500 15px/1.5 var
         gh.style.setProperty('--tx', (innerWidth / 2 - (rr.left + rr.width * .5)).toFixed(1) + 'px');
         gh.style.setProperty('--ty', (innerHeight * .55 - (rr.top + rr.height * .9)).toFixed(1) + 'px');
         at_(300, function () { add('push'); });
-        at_(1350, function () { add('bloom-in'); });
-        at_(1750, function () { add('gate-off'); root.classList.remove('bloom-in'); add('bloom-out'); bokehRun(false); });
-        at_(1850, function () { add('names-in'); });
-        at_(2150, function () { add('ui-in'); });
-        at_(2750, goLive);
+        at_(1100, function () { add('gate-fade'); });
+        at_(1250, function () { add('bloom-in'); });
+        at_(1700, function () { root.classList.remove('bloom-in'); add('bloom-out'); });
+        at_(1800, function () { add('names-in', 'gate-off'); bokehRun(false); });
+        at_(1300, function () { add('ui-in'); });
+        at_(2600, goLive);
         timers.push(setTimeout(function () { goLive(); }, 4200)); // watchdog
         later(function () { doc.addEventListener('pointerdown', skip, true); }, 200);
     }
     function skip() {
         if (isLive) return;
         timers.forEach(clearTimeout); timers = [];
-        add('skip', 'gate-off', 'names-in', 'ui-in', 'bloom-out'); root.classList.remove('bloom-in');
+        add('skip', 'gate-off', 'gate-fade', 'names-in', 'ui-in', 'bloom-out'); root.classList.remove('bloom-in');
         goLive();
         later(function () { root.classList.remove('skip'); }, 400);
     }
@@ -2009,7 +2069,7 @@ footer { padding: 24px var(--m) 28px; text-align: center; font: 500 15px/1.5 var
     function replay() {
         closeSheet();
         win.scrollTo(0, 0);
-        root.classList.remove('live', 'names-in', 'ui-in', 'sweep', 'gate-off', 'bloom-out', 'push', 'flare', 'snap');
+        root.classList.remove('live', 'names-in', 'ui-in', 'sweep', 'gate-off', 'gate-fade', 'bloom-out', 'push', 'flare', 'snap');
         add('locked');
         $('#bar').classList.remove('on');
         doc.body.insertBefore(gate, $('#bloom'));
@@ -2057,9 +2117,11 @@ footer { padding: 24px var(--m) 28px; text-align: center; font: 500 15px/1.5 var
     function burst() {
         if (calm) return;
         var spr = petals(), R = prng(120), n = [24, 40, 56][tier], ps = [], W = innerWidth, H = innerHeight, vs = clamp(W / 520, .62, 1);
+        var dr = $('#gHero').getBoundingClientRect(), ox = dr.left + dr.width * .5, oy = dr.top + dr.height * .9;
+        if (!(ox > 0 && ox < W)) ox = W * .3; if (!(oy > 0 && oy < H)) oy = H * .55;
         for (var i = 0; i < n; i++) {
-            var left = i % 2 === 0, a = (35 + R() * 30) * Math.PI / 180, v = (700 + R() * 500) * vs;
-            ps.push({ x: left ? -6 : W + 6, y: H * (.86 + (R() * 2 - 1) * .04), vx: (left ? 1 : -1) * Math.cos(a) * v, vy: -Math.sin(a) * v, s: spr[PET_MIX[i % PET_MIX.length]], sz: (.95 + R() * .8) * (W < 600 ? 1 : 1.35), ph: R() * 6.28, fs: 6 + R() * 6, rot: R() * 6.28, vr: (R() * 2 - 1) * 5, life: 1.25 + R() * .3, t: -R() * .15 });
+            var a = (-90 + (R() * 2 - 1) * 62) * Math.PI / 180, v = (520 + R() * 520) * vs;
+            ps.push({ x: ox + (R() * 2 - 1) * 10, y: oy, vx: Math.cos(a) * v, vy: Math.sin(a) * v, s: spr[PET_MIX[i % PET_MIX.length]], sz: (.95 + R() * .8) * (W < 600 ? 1 : 1.35), ph: R() * 6.28, fs: 6 + R() * 6, rot: R() * 6.28, vr: (R() * 2 - 1) * 5, life: 1.25 + R() * .3, t: -R() * .15 });
         }
         fxRun(ps, 1.65, function (g, dt, k) {
             for (var i = 0; i < ps.length; i++) {
